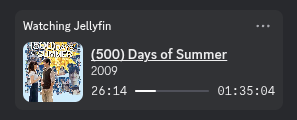
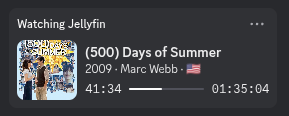
Combine getActivity and getImage into one async function

Changed region(s): [[0.0311, 0.3362, 0.9343, 0.8793], [0.0623, 0.1552, 0.3737, 0.2845], [0.8408, 0.181, 0.9343, 0.2328]]

diff --git a/handlers.ts b/handlers.ts
@@ -1,11 +1,34 @@
 import { ActivityStatusDisplayType, ActivityType } from "@vencord/discord-types/enums";
 import settings from "./settings";
+import logger from "./logger";
+
+function getCountryEmoji(code: string) {
+    return Array.from(code).map(letter => String.fromCodePoint(0x1F1A5 + letter.charCodeAt(0))).join("")
+}
 
 export const audioHandler = {
     icon: "audio",
 
-    getActivity(item) {
+    async getActivity(item) {
         const { MusicBrainzAlbum: releaseID, MusicBrainzArtist: artistID } = item.ProviderIds;
+
+        let imageURL;
+        if (releaseID) {
+            try {
+                const response = await fetch(`https://coverartarchive.org/release/${releaseID}`);
+                if (response.ok) {
+                    const data = await response.json();
+                    for (const image of data.images) {
+                        if (image.front) {
+                            imageURL = image.thumbnails.small;
+                            break;
+                        }
+                    }
+                }
+            } catch(error) {
+                logger.error(`Failed to query Cover Art Archive for "${item.Name}"`, error)
+            }
+        }
 
         return {
             type: ActivityType.LISTENING,
@@ -14,27 +37,9 @@ export const audioHandler = {
             detailsURL: releaseID ? `https://musicbrainz.org/release/${releaseID}` : undefined,
             state: item.Artists.join(", "),
             stateURL: artistID ? `https://musicbrainz.org/artist/${artistID}` : undefined,
-            image: item.Album,
+            imageCaption: item.Album,
+            imageURL,
         };
-    },
-
-    async getImage(item) {
-        const releaseID = item.ProviderIds.MusicBrainzAlbum;
-        if (releaseID) {
-            const response = await fetch(`https://coverartarchive.org/release/${releaseID}`);
-
-            if (response.ok) {
-                const data = await response.json();
-
-                for (const image of data.images) {
-                    if (image.front) {
-                        return image.thumbnails.small;
-                    }
-                }
-            }
-        }
-
-        return null;
     },
 };
 
@@ -43,7 +48,42 @@ const TMDB_IMAGE_PREFIX = "http://image.tmdb.org/t/p/w500";
 export const movieHandler = {
     icon: "movie",
 
-    getActivity(item) {
+    async getActivity(item) {
+        const { Tmdb: tmdbID } = item.ProviderIds;
+
+        if (settings.store.tmdbAPIKey && tmdbID) {
+            try {
+                const [ detailsResponse, creditsResponse ] = await Promise.all([
+                    fetch(`https://api.themoviedb.org/3/movie/${tmdbID}?api_key=${settings.store.tmdbAPIKey}`),
+                    fetch(`https://api.themoviedb.org/3/movie/${tmdbID}/credits?api_key=${settings.store.tmdbAPIKey}`),
+                ]);
+                
+                if (detailsResponse.ok && creditsResponse.ok) {
+                    const details = await detailsResponse.json();
+                    const credits = await creditsResponse.json();
+
+                    const releaseDate = new Date(details.release_date);
+                    const director = credits.crew.find(person => person.job === "Director");
+
+                    const state: (number | string)[] = [];
+                    state.push(releaseDate.getFullYear());
+                    if (director) state.push(director.name);
+                    state.push(details.origin_country.map(getCountryEmoji).join(""));
+                    
+                    return {
+                        type: ActivityType.WATCHING,
+                        statusType: ActivityStatusDisplayType.DETAILS,
+                        details: details.title,
+                        detailsURL: `https://www.themoviedb.org/movie/${tmdbID}`,
+                        state: state.join(" ⸱ "),
+                        imageURL: TMDB_IMAGE_PREFIX + details.poster_path,
+                    }
+                }
+            } catch(error) {
+                logger.error(`Failed to query TMDB for "${item.Name}"`, error)
+            }
+        }
+
         return {
             type: ActivityType.WATCHING,
             statusType: ActivityStatusDisplayType.DETAILS,
@@ -51,28 +91,6 @@ export const movieHandler = {
             detailsURL: item.ExternalUrls[0]?.Url,
             state: item.ProductionYear,
         };
-    },
-
-    async getImage(item) {
-        if (settings.store.tmdbAPIKey) {
-            const { Tmdb: tmdbID, Imdb: imdbID } = item.ProviderIds;
-
-            if (tmdbID) {
-                const response = await fetch(`https://api.themoviedb.org/3/movie/${tmdbID}?api_key=${settings.store.tmdbAPIKey}`);
-                if (response.ok) {
-                    const details = await response.json();
-                    return TMDB_IMAGE_PREFIX + details.poster_path;
-                }
-            } else if (imdbID) {
-                const response = await fetch(`https://api.themoviedb.org/3/find/${imdbID}?api_key=${settings.store.tmdbAPIKey}`);
-                if (response.ok) {
-                    const { movie_results: results } = await response.json();
-                    return results.length > 0 ? TMDB_IMAGE_PREFIX + results[0].poster_path : null;
-                }
-            }
-        }
-
-        return null;
     },
 };
 

diff --git a/index.ts b/index.ts
@@ -16,16 +16,12 @@
  * along with this program.  If not, see <https://www.gnu.org/licenses/>.
 */
 
-import definePlugin, { OptionType } from "@utils/types";
-import { Logger } from "@utils/Logger";
-import { definePluginSettings } from "@api/Settings";
+import definePlugin from "@utils/types";
 import { ApplicationAssetUtils, FluxDispatcher } from "@webpack/common";
 import { ActivityFlags } from "@vencord/discord-types/enums";
 import handlers from "./handlers";
 import settings from "./settings";
 import { addOverride, ensureAllOverrides } from "./csp";
-
-const logger = new Logger("JellyfinRichPresence");
 
 export default definePlugin({
     name: "JellyfinRichPresence",
@@ -73,45 +69,38 @@ export default definePlugin({
         });
     },
 
-    imageCache: {},
+    activityCache: {},
     async buildActivity(session) {
         const item = session.NowPlayingItem;
         const handler = handlers[item.Type];
 
         if (handler) {
-            const result = handler.getActivity(item);
-
-            let imageURL = this.imageCache[item.Id];
-            if (imageURL === undefined) {
-                try {
-                    imageURL = await handler.getImage(item);
-                } catch (error) {
-                    logger.error(`Failed to fetch image for ${item.Name}`, error);
-                    imageURL = null;
-                }
-                this.imageCache[item.Id] = imageURL;
+            let activity = this.activityCache[item.Id];
+            if (activity === undefined) {
+                activity = await handler.getActivity(item);
+                this.activityCache[item.Id] = activity;
             }
 
             const startTime = Date.now() - session.PlayState.PositionTicks / 10000;
             const endTime = startTime + item.RunTimeTicks / 10000;
 
-            const [imageAsset] = await ApplicationAssetUtils.fetchAssetIds(settings.store.applicationID, [imageURL ?? handler.icon]);
+            const [ imageAsset ] = await ApplicationAssetUtils.fetchAssetIds(settings.store.applicationID, [ activity.imageURL ?? handler.icon ]);
 
             return {
                 application_id: settings.store.applicationID,
                 flags: ActivityFlags.INSTANCE,
 
                 name: settings.store.applicationName,
-                type: result.type,
-                status_display_type: result.statusType,
-                details: result.details,
-                details_url: result.detailsURL,
-                state: result.state,
-                state_url: result.stateURL,
+                type: activity.type,
+                status_display_type: activity.statusType,
+                details: activity.details,
+                details_url: activity.detailsURL,
+                state: activity.state,
+                state_url: activity.stateURL,
                 timestamps: { start: startTime, end: endTime },
                 assets: {
                     large_image: imageAsset,
-                    large_text: result.image ?? null,
+                    large_text: activity.imageCaption ?? null,
                     small_image: null,
                     small_text: null,
                 },

diff --git a/logger.ts b/logger.ts
@@ -1,0 +1,3 @@
+import { Logger } from "@utils/Logger";
+
+export default new Logger("JellyfinRichPresence");
